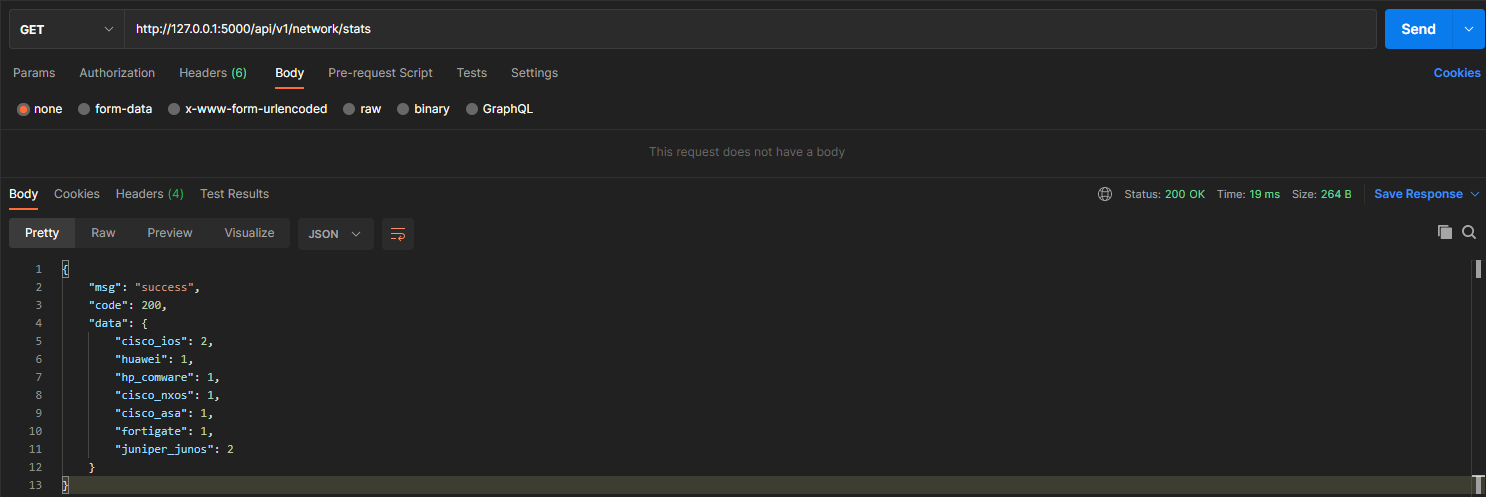
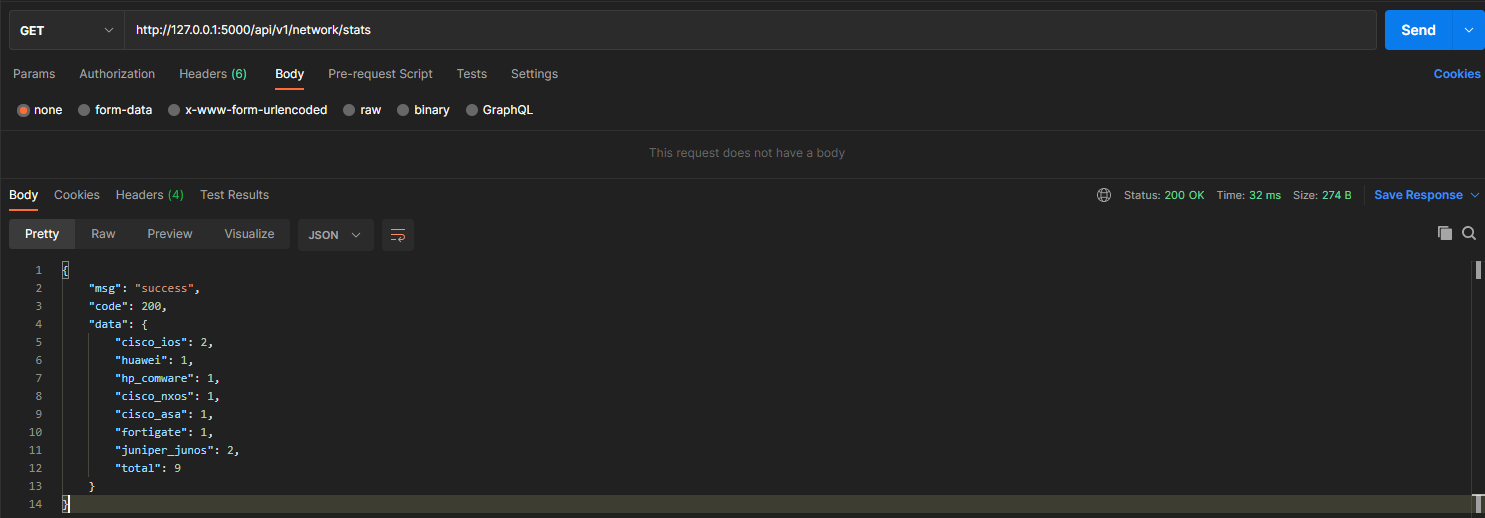
feat: update stats api

diff --git a/api.py b/api.py
@@ -101,4 +101,4 @@ async def stats():
     result = dict()
     for i in devices:
         result[i['vendor']] = result.get(i['vendor'], 0) + 1
-    return {'msg': 'success', 'code': 200, 'data': result}
+    return {'msg': 'success', 'code': 200, 'data': {**result, 'total': len(devices)}}
